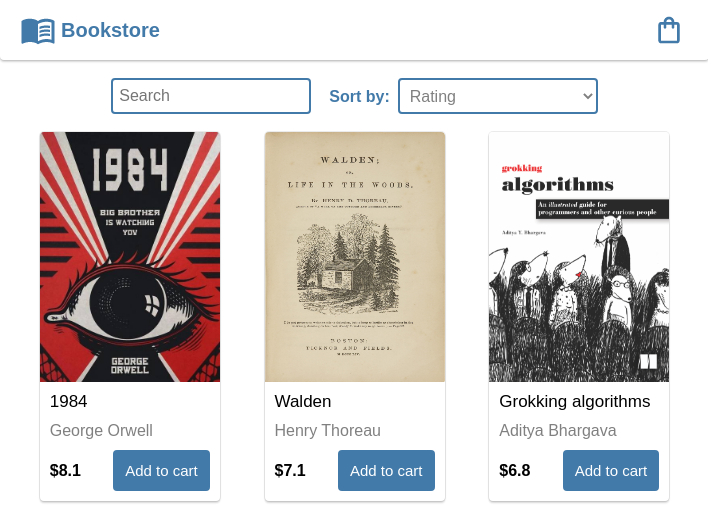
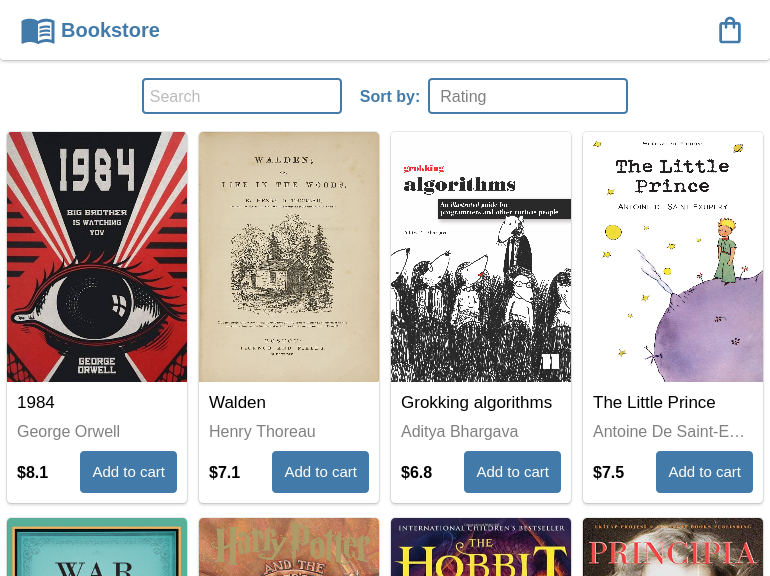
Update previews

diff --git a/style.css b/style.css
@@ -9,7 +9,7 @@
 
 body {
   width: 100%;
-  max-width: 760px;
+  max-width: 800px;
   margin: 0 auto;
   padding: 20px 10px;
 }
@@ -52,7 +52,7 @@ section {
 
 .card {
   border: 1px solid #cccccc;
-  width: 320px;
+  width: 370px;
   margin: 10px;
   border-radius: 5px;
 }
@@ -75,6 +75,7 @@ section {
 .preview {
   border-radius: 5px 5px 0 0;
   width: 100%;
+  height: 270px;
   margin-bottom: 10px;
 }
 

diff --git a/index.html b/index.html
@@ -54,7 +54,7 @@
             <img
               class="preview"
               src="res/social-network.png"
-              alt="In development"
+              alt="Site preview"
             />
           </a>
           <span class="ts" />
